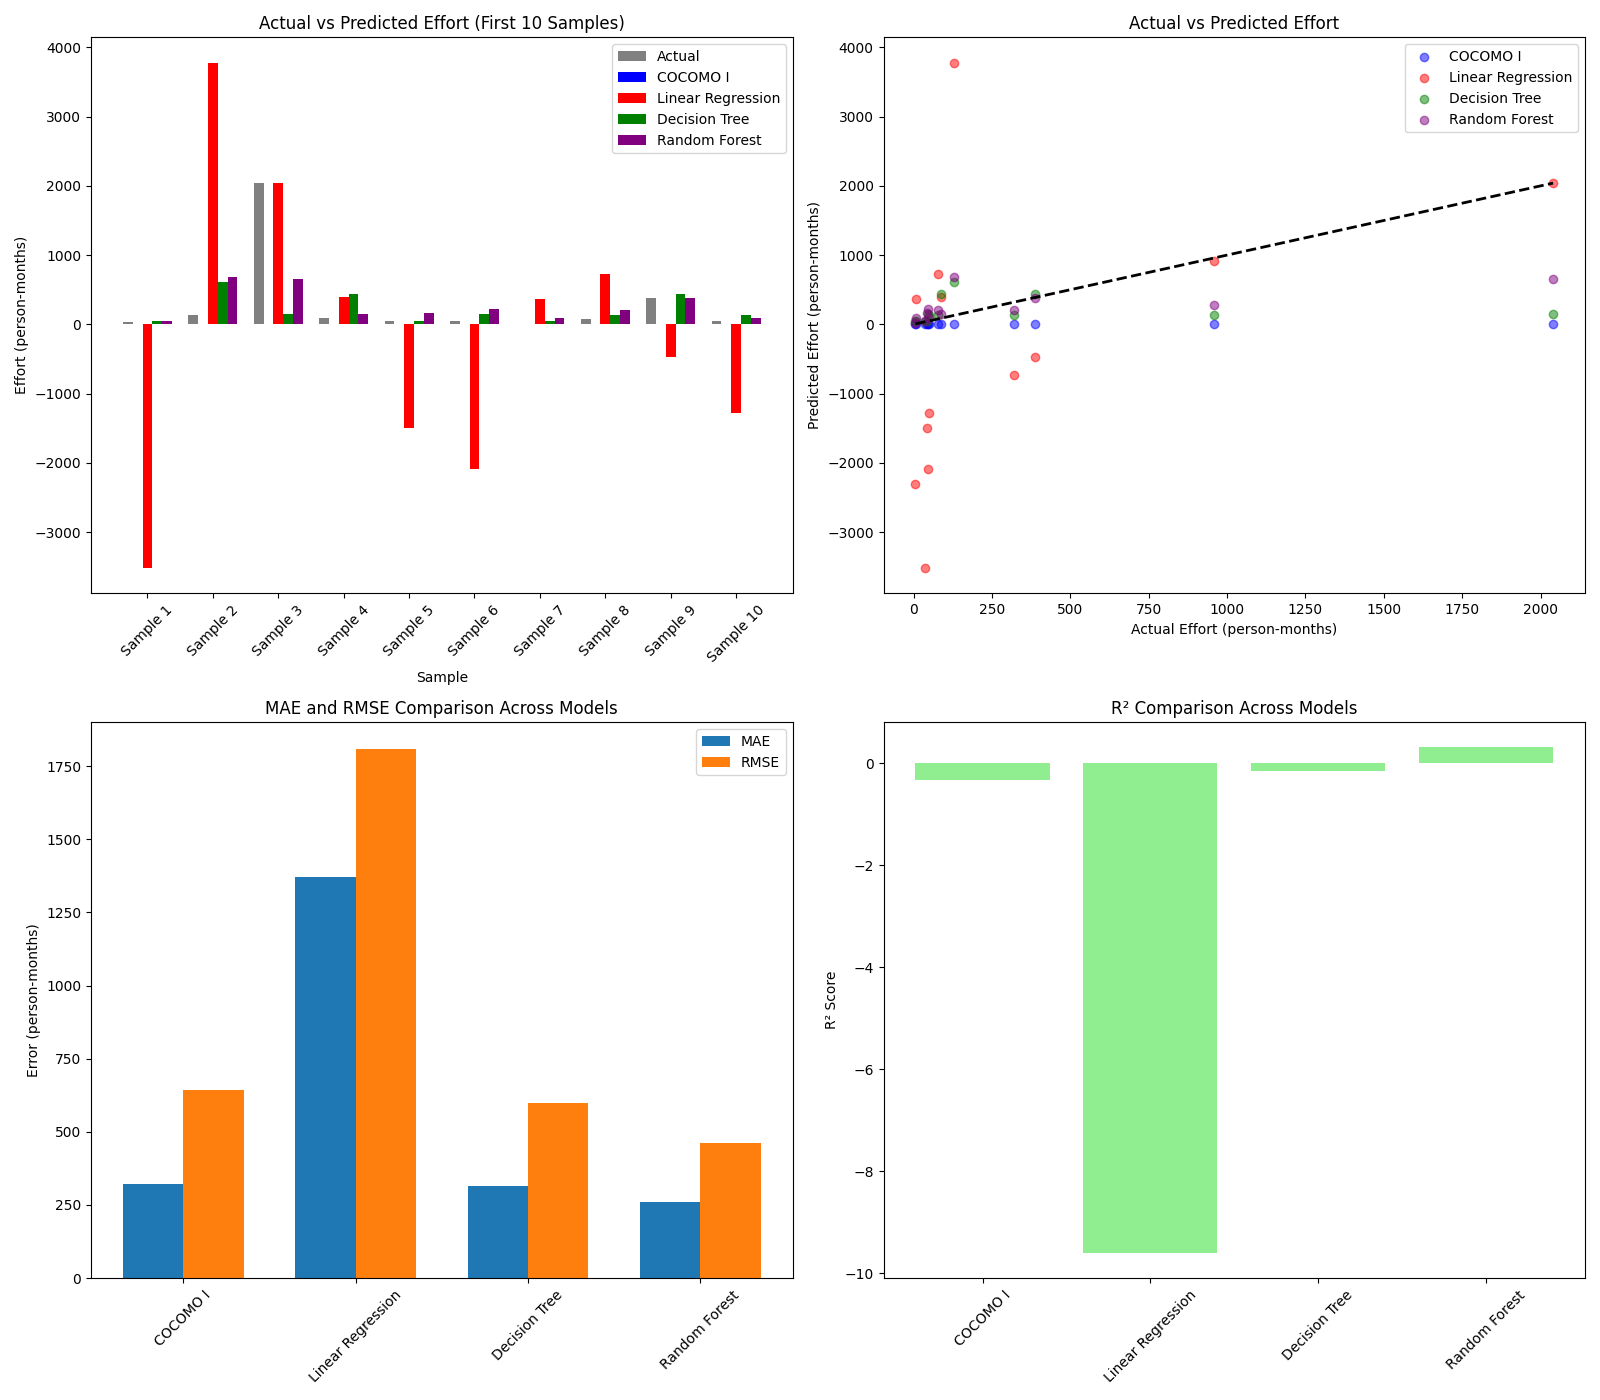
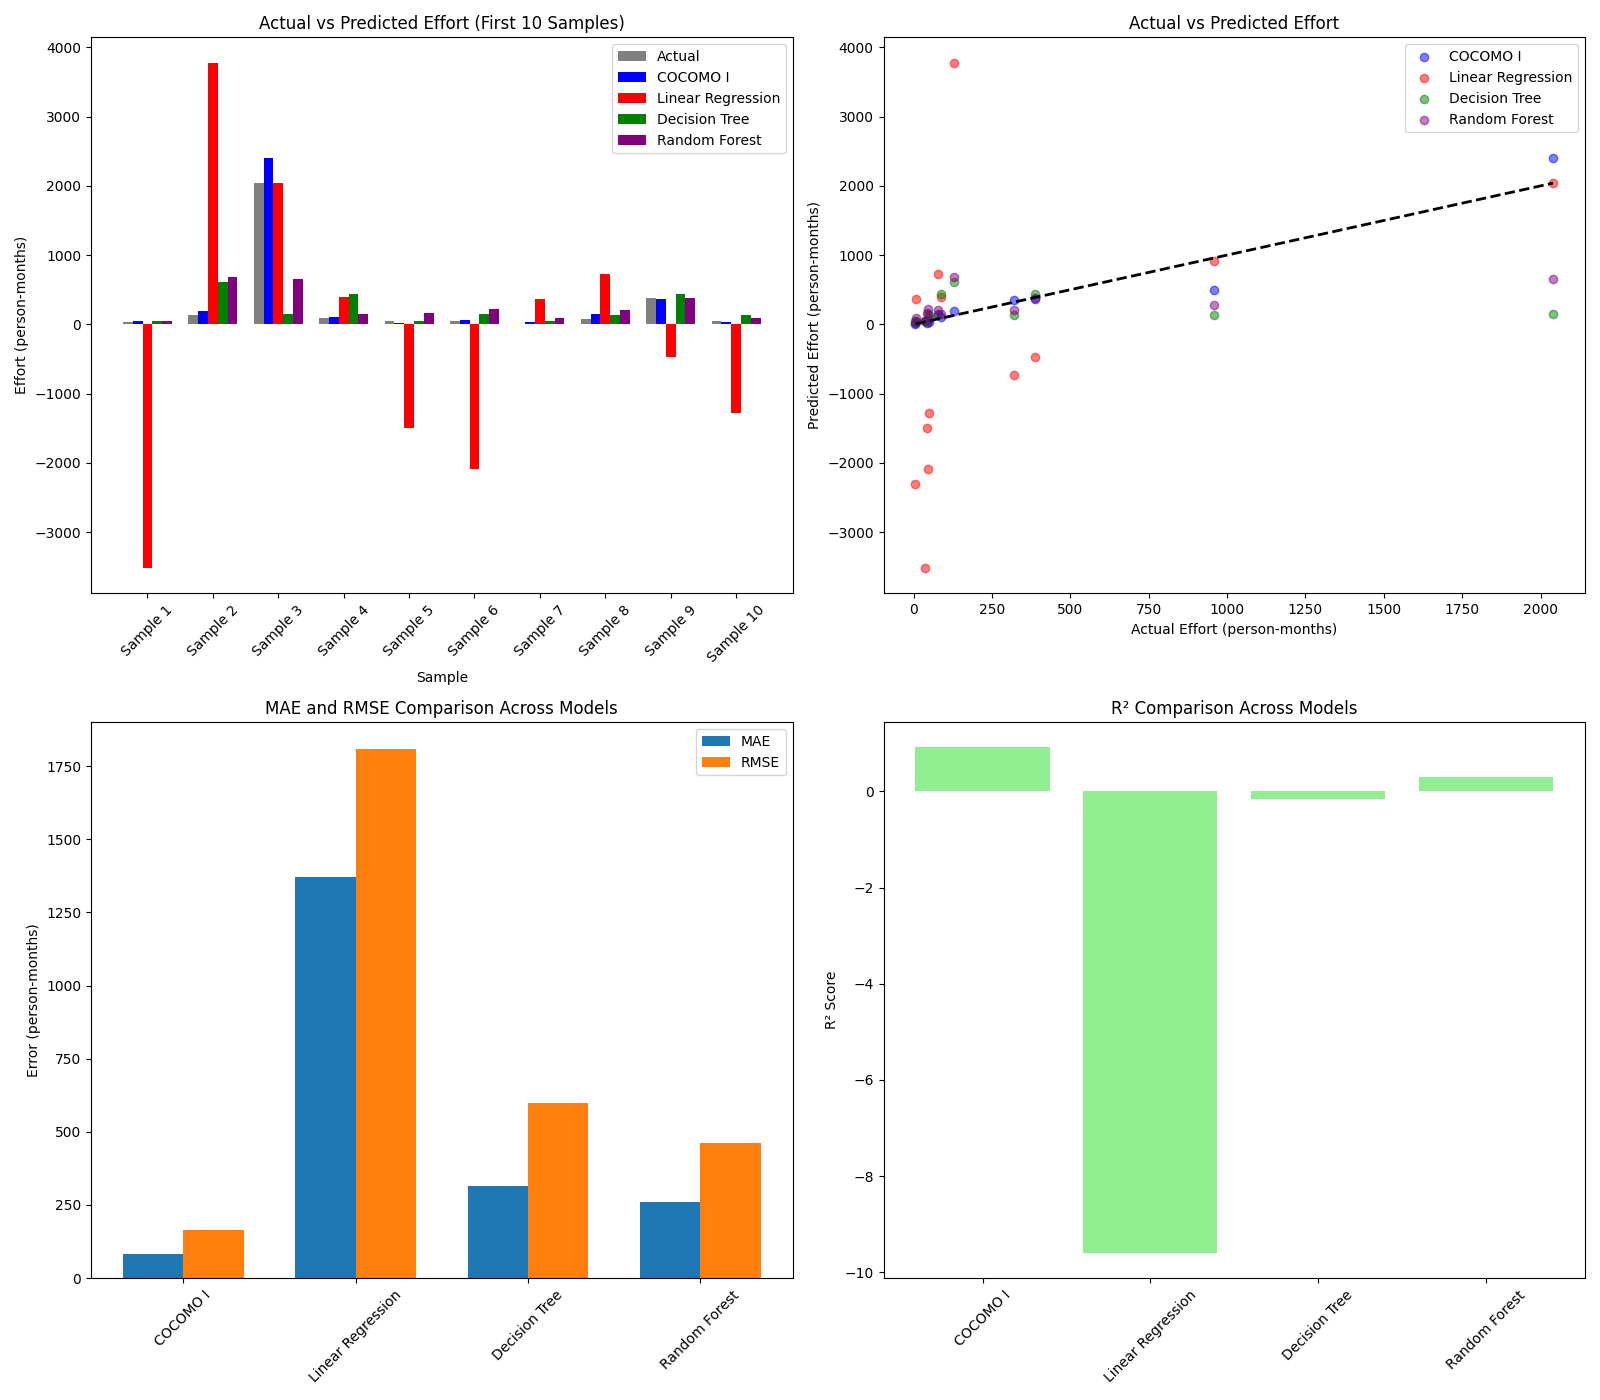
test -2

diff --git a/test.py b/test.py
@@ -133,7 +133,7 @@ def calculate_cocomo_effort(row):
             em *= row[driver]
     
     # Calculate COCOMO effort: E = a × (KLOC)^b × EM
-    kloc = row['loc'] / 1000  # Convert LOC to KLOC
+    kloc = row['loc'] 
     effort = a * (kloc ** b) * em
     
     return effort
